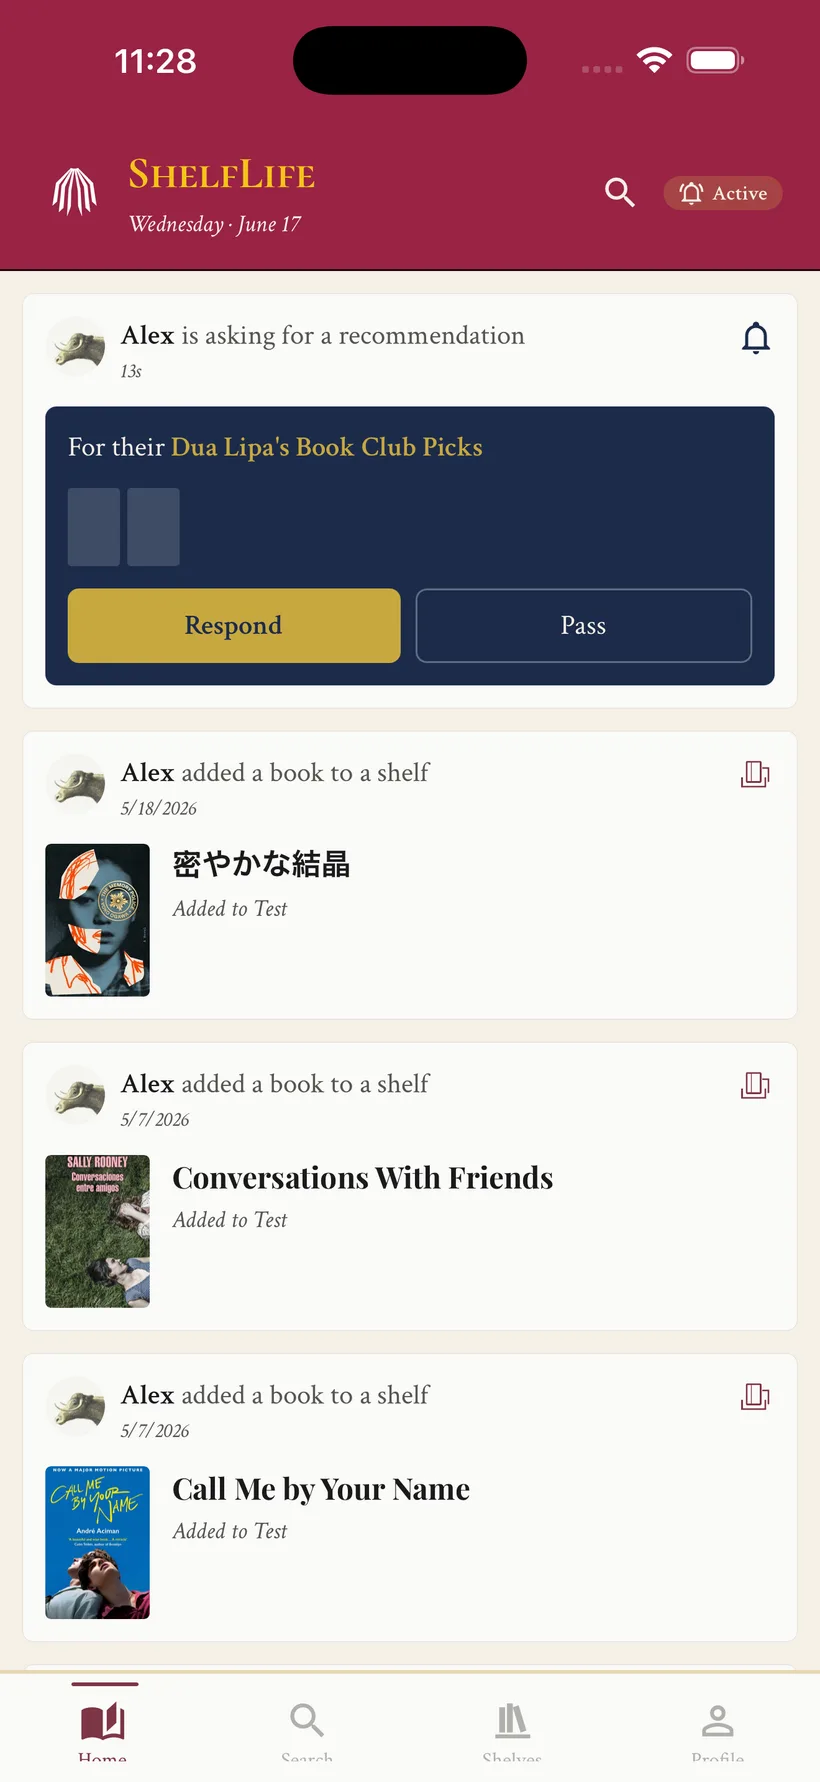
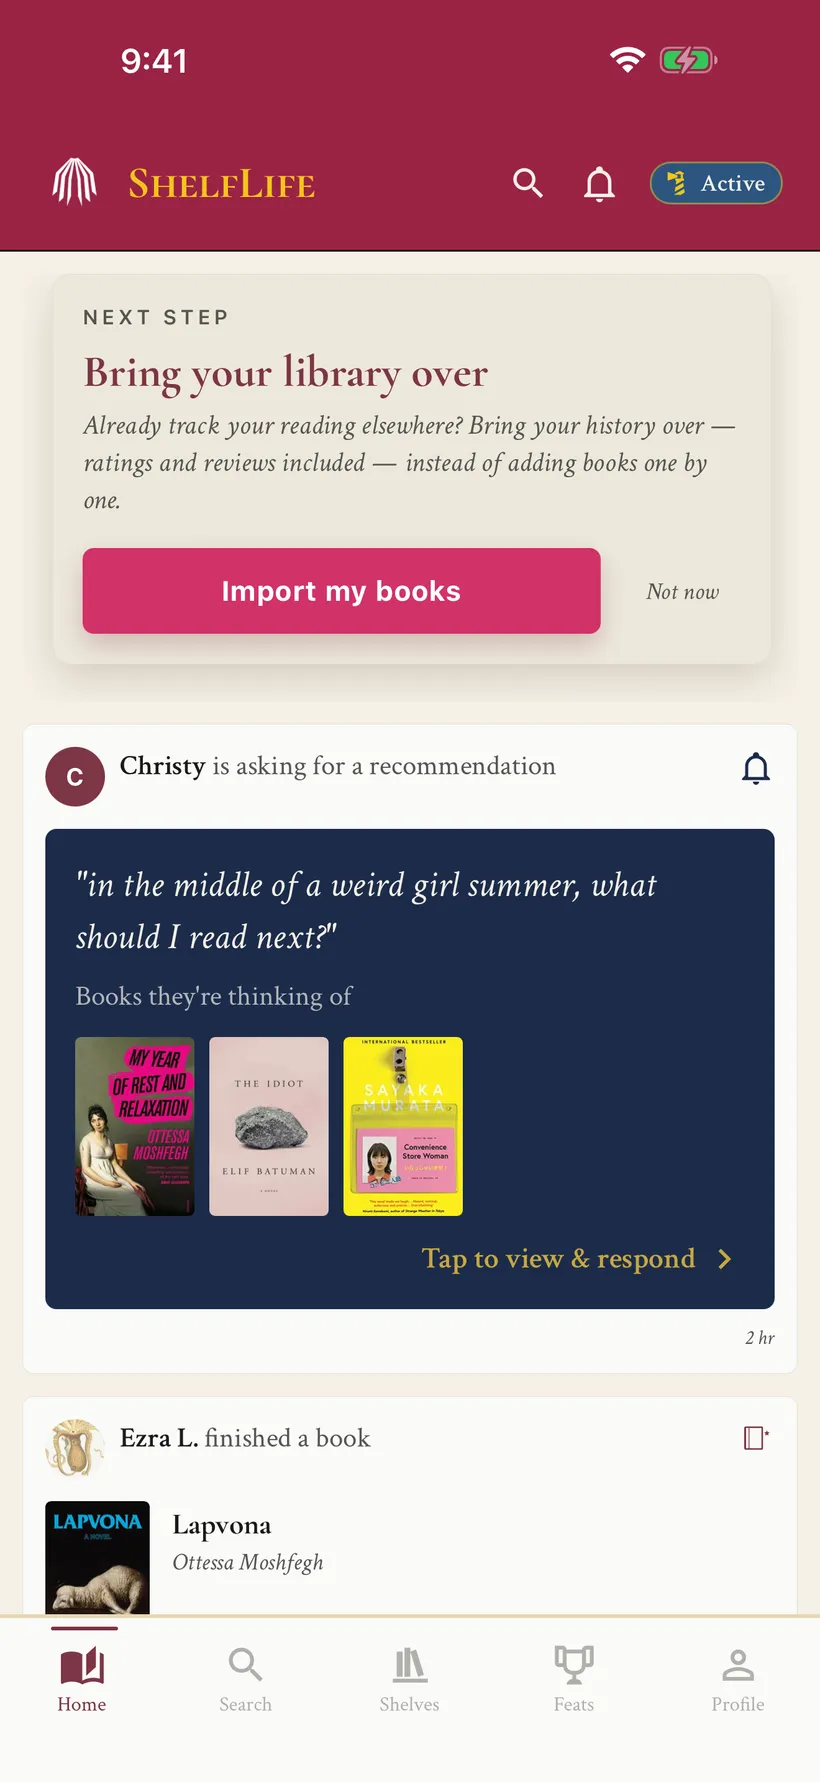
assets: refresh ShelfLife screenshots from marketing site

diff --git a/docs/design/portfolio-v5.html b/docs/design/portfolio-v5.html
@@ -98,9 +98,9 @@
                         <a class="D-pl" href="https://theshelflifeapp.com">theshelflifeapp.com →</a>
                       </div>
                       <div class="D-shots">
-                        <img class="ph" src="https://www.fisherbirdsoftware.com/shelflife/screenshot-home-feed-01.webp" alt="ShelfLife home feed" />
-                        <img class="ph" src="https://www.fisherbirdsoftware.com/shelflife/screenshot-shelf-export-01.webp" alt="ShelfLife shelf export" />
-                        <img class="ph" src="https://www.fisherbirdsoftware.com/shelflife/screenshot-signal-explainer.webp" alt="ShelfLife Book Signal" />
+                        <img class="ph" src="../../projects/web/public/portfolio/shelflife-home-feed.webp" alt="ShelfLife home feed" />
+                        <img class="ph" src="../../projects/web/public/portfolio/shelflife-shelf-export.webp" alt="ShelfLife shelf export" />
+                        <img class="ph" src="../../projects/web/public/portfolio/shelflife-book-signal.webp" alt="ShelfLife Book Signal" />
                       </div>
 <div class="D-proof"><div><p class="D-proofv">4.8★</p><p>App Store rating</p></div><div><p class="D-proofv">~3,500</p><p>installs in the two months after v1</p></div></div>
                     </div>

diff --git a/docs/design/README.md b/docs/design/README.md
@@ -7,3 +7,5 @@ The production TSX adaptation uses local product images, semantic landmarks, res
 The existing The City and Worship routes and their assets remain available through secondary footer links. No infrastructure or deployment changes.
 
 The TSX component uses a colocated scoped Portfolio.css stylesheet.
+
+ShelfLife images match the three files used by the marketing download page in `fisherbird-shelf/apps/marketing`: `screenshot-home-feed-02.webp`, `screenshot-shelf-export-02.webp`, and `screenshot-book-signal.webp`. The standalone prototype references the same local assets.
